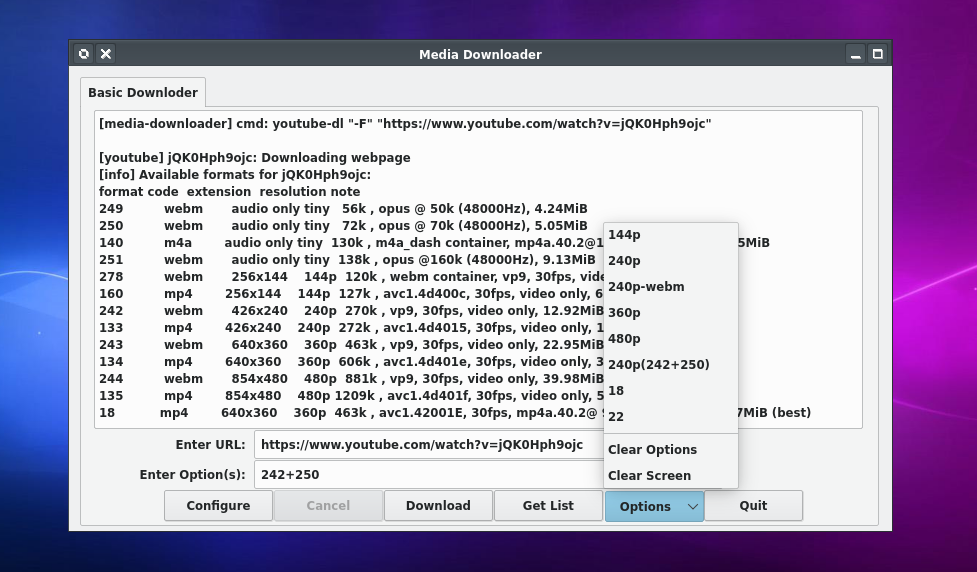
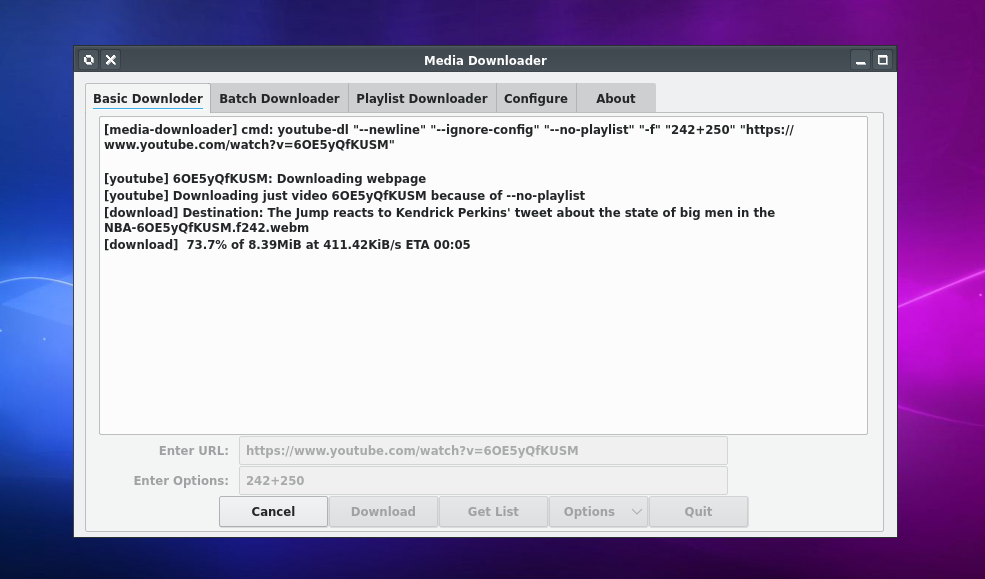
update screenshots

Changed region(s): [[0.0, 0.0594, 0.9519, 0.951], [0.9826, 0.4458, 1.0, 0.4755], [0.9519, 0.4755, 0.9826, 0.5052]]

diff --git a/README.md b/README.md
@@ -20,3 +20,5 @@ Features offered:-
 ![media-downloader.png](https://raw.githubusercontent.com/mhogomchungu/media-downloader/main/images/media-downloader.png)
 
 ![media-downloader.png](https://raw.githubusercontent.com/mhogomchungu/media-downloader/main/images/media-downloader-1.png)
+
+![media-downloader.png](https://raw.githubusercontent.com/mhogomchungu/media-downloader/main/images/media-downloader-2.png)
